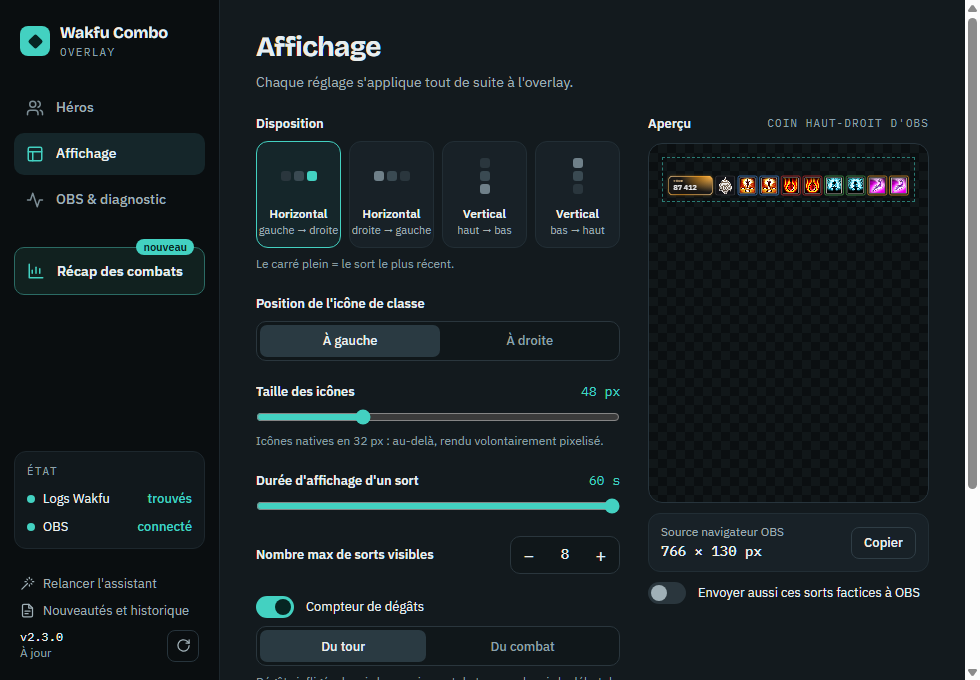
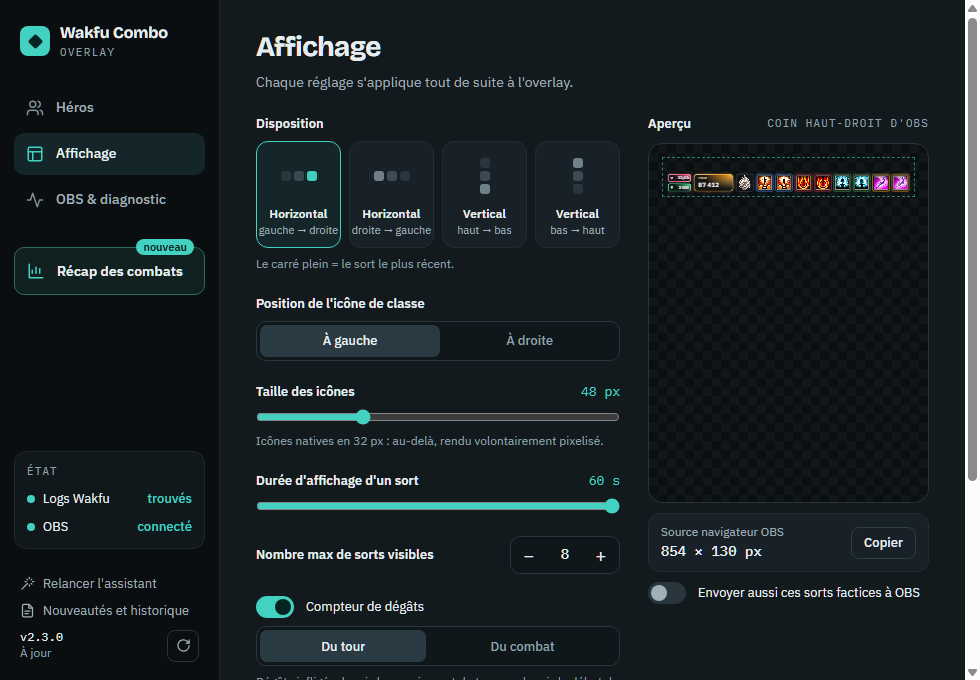
feat: mise à jour de la documentation et ajout de nouvelles images pour les récapitulatifs de combat, y compris les soins et l'armure

Changed region(s): [[0.6735, 0.2471, 0.949, 0.3088], [0.9796, 0.7103, 1.0, 0.7412], [0.6735, 0.8029, 0.7041, 0.8338]]

diff --git a/tools/capture_gif.js b/tools/capture_gif.js
@@ -1,7 +1,7 @@
 /**
  * tools/capture_gif.js
  * Records doc/overlay-demo.gif: the real overlay replaying a scripted fight
- * (casts, damage counter, an Osamodas summon), written to a fake wakfu.log in
+ * (casts, damage counter, heals and armour given, an Osamodas summon), written to a fake wakfu.log in
  * the same format as the game's. The app runs on an isolated demo profile on
  * port 3498 (see demo_app.js), so a running instance isn't disturbed; Electron
  * is only the offscreen browser that films the overlay.
@@ -24,8 +24,8 @@ const PORT = 3498;
 const ICON_SIZE = 48;
 const FPS = 15;
 const BACKGROUND = '#1b1f24';
-// Overlay size for 8 casts at 48 px with the damage counter (see overlaySize() in settings.js).
-const SIZE = ORIENTATION === 'vertical' ? { width: 188, height: 643 } : { width: 766, height: 130 };
+// Overlay size for 8 casts at 48 px with the counters (see overlaySize() in settings.js).
+const SIZE = ORIENTATION === 'vertical' ? { width: 188, height: 705 } : { width: 854, height: 130 };
 
 const profile = createDemoProfile({
   name: 'wakfu-combo-overlay-gif',
@@ -33,8 +33,9 @@ const profile = createDemoProfile({
   heroes: [
     hero('Lueur Ocre', 'iop', 74, 144, 226),
     hero('Lueur Pourpre', 'sram', 220, 50, 50),
+    hero('Lueur Grenat', 'eniripsa', 236, 64, 122),
     hero('Lueur Émeraude', 'osamodas', 76, 175, 80),
-    hero('Lueur Acérée', 'cra', 255, 167, 38),
+    hero('Lueur Etherique', 'huppermage', 171, 71, 188),
   ],
   comboLayout: {
     orientation: ORIENTATION, direction: ORIENTATION === 'vertical' ? 'top-to-bottom' : 'left-to-right',
@@ -61,29 +62,45 @@ const join = (name, breed, ai) => write(` INFO ${stamp()} [AWT-EventQueue-0] (fc
 const cast = (who, spell) => () => combat(`${who} lance le sort ${spell}`);
 const hit = (pv, element) => () => combat(`Sac à patates: -${pv} PV  (${element})`);
 const turnEnd = (s) => () => combat(`${s} secondes reportées pour le tour suivant.`);
+const heal = (who, pv, tags) => () => combat(`${who}: +${pv} PV ${tags}`);
+const armor = (who, amount) => () => combat(`${who}: ${amount} Armure`);
 const SCRIPT = [
   [0, () => join('Sac à patates', 2335, true)],
   [0, () => join('Lueur Ocre', 8, false)],
   [0, () => join('Lueur Pourpre', 4, false)],
+  [0, () => join('Lueur Grenat', 7, false)],
   [0, () => join('Lueur Émeraude', 2, false)],
-  [0, () => join('Lueur Acérée', 9, false)],
-  [600, cast('Lueur Ocre', 'Épée céleste')], [450, hit('2 431', 'Feu')],
+  [0, () => join('Lueur Etherique', 19, false)],
+  // First, the Huppermage: damage, a Faille shielding an ally and herself
+  // (both hers), then lifesteal — all three counters from the first turn.
+  [600, cast('Lueur Etherique', 'Orbes luisants (Critiques)')], [450, hit('3 377', 'Lumière')],
+  [700, cast('Lueur Etherique', 'Faille')], [450, armor('Lueur Ocre', '1 732')],
+  [200, armor('Lueur Etherique', '1 732')],
+  [700, cast('Lueur Etherique', 'Épée de lumière (Critiques)')], [450, hit('4 912', 'Lumière')],
+  [250, heal('Lueur Etherique', '1 640', '(Neutre - Vol de vie)')],
+  [900, turnEnd(19)],
+  [400, cast('Lueur Ocre', 'Épée céleste')], [450, hit('2 431', 'Feu')],
   [700, cast('Lueur Ocre', 'Fulgur')], [450, hit('3 108', 'Feu')],
   [700, cast('Lueur Ocre', 'Super Iop Punch')], [450, hit('5 874', 'Terre')],
   [900, turnEnd(21)],
+  // Lifesteal: the Sram's own heal.
   [400, cast('Lueur Pourpre', 'Saignée mortelle')], [450, hit('1 962', 'Eau')],
+  [250, heal('Lueur Pourpre', '980', '(Neutre - Vol de vie) (Saignée mortelle)')],
   [700, cast('Lueur Pourpre', 'Attaque perfide (Critiques)')], [450, hit('4 320', 'Eau')],
   [700, cast('Lueur Pourpre', 'Mise à mort')], [450, hit('6 715', 'Air')],
   [900, turnEnd(18)],
+  // The Eniripsa heals the group, then hits.
+  [400, cast('Lueur Grenat', 'Revitalisation')], [450, heal('Lueur Ocre', '2 577', '(Eau)')],
+  [200, heal('Lueur Pourpre', '2 410', '(Eau)')],
+  [700, cast('Lueur Grenat', 'Mot soignant (Critiques)')], [450, heal('Lueur Pourpre', '4 126', '(Feu)')],
+  [700, cast('Lueur Grenat', 'Flamme purificatrice')], [450, hit('1 845', 'Feu')],
+  [900, turnEnd(22)],
   [400, cast('Lueur Émeraude', 'Invocation')],
   [300, () => combat('Lueur Émeraude: Invoque une créature du Gobgob')],
   [0, () => join('Dragoeuf Guerrier', 4210, true)],
   [700, cast('Lueur Émeraude', 'Fouet')], [450, hit('1 845', 'Feu')],
   [700, turnEnd(25)],
   [400, cast('Dragoeuf Guerrier', 'Griffure')], [450, hit('2 290', 'Feu')],
-  [900, cast('Lueur Acérée', 'Flèche tempête')], [450, hit('2 604', 'Air')],
-  [700, cast('Lueur Acérée', 'Flèche explosive')], [450, hit('3 377', 'Feu')],
-  [700, cast('Lueur Acérée', 'Pluie de flèches')], [450, hit('4 912', 'Terre')],
   [2200, turnEnd(14)],
 ];
 

diff --git a/tools/capture_screenshots.js b/tools/capture_screenshots.js
@@ -98,25 +98,29 @@ app.whenReady().then(async () => {
 
   // Overlay "OBS" client, so the diagnostics show a connected source.
   const overlayWin = new BrowserWindow({
-    // Overlay size for 8 casts at 48 px with the damage counter (see overlaySize() in settings.js).
-    width: 766, height: 130, useContentSize: true, show: false, backgroundColor: '#1b1f24',
+    // Overlay size for 8 casts at 48 px with the counters (see overlaySize() in settings.js).
+    width: 854, height: 130, useContentSize: true, show: false, backgroundColor: '#1b1f24',
     webPreferences: { offscreen: false },
   });
   await overlayWin.loadURL(`http://localhost:${PORT}`);
   await wait(1000);
 
-  // Casts (and what they hit): tracked heroes, an untracked hero, a random player.
+  // Casts (and what they hit, then any other line): tracked heroes, an
+  // untracked hero, a random player. The last hero also heals (lifesteal)
+  // and gains armour, for the heal and armour counters.
   const seq = [
     ['Lueur Ocre', 'Épée céleste', '2 431'], ['Lueur Pourpre', 'Saignée mortelle', '1 962'],
     ['Lueur Grenat', 'Mot soignant'], ['Lueur Acérée', 'Flèche tempête', '2 604'],
     ['Lueur Etherique', 'Résonance', '3 377'], ['Kralamoure Pas-Content', 'Tentacule'],
-    ['Lueur Ocre', 'Fulgur', '3 108'], ['Lueur Pourpre', 'Mise à mort', '6 715'],
+    ['Lueur Ocre', 'Fulgur', '3 108'],
+    ['Lueur Pourpre', 'Mise à mort', '6 715', ['Lueur Pourpre: +4 210 PV (Neutre - Vol de vie)', 'Lueur Pourpre: 2 150 Armure']],
   ];
-  for (const [who, spell, damage] of seq) {
+  for (const [who, spell, damage, then = []] of seq) {
     cast(who, spell);
     win.webContents.send('demo:debug', debugEntry(who, spell));
     await wait(300);
     if (damage) combat(`Sac à patates: -${damage} PV  (Feu)`);
+    for (const line of then) combat(line);
     await wait(500);
   }
   await wait(1200);
@@ -167,6 +171,11 @@ app.whenReady().then(async () => {
   await shot(recapWin, 'app-6-recap-soins.png', `
     [...document.querySelectorAll('[role=tab]')].find((b) => b.textContent.includes('Soins')).click();
     ${openHero('Lueur Grenat', 0)}
+  `);
+  await shot(recapWin, 'app-6b-recap-armure.png', `
+    document.querySelector('.rc-row.open .rc-row-btn')?.click();
+    [...document.querySelectorAll('[role=tab]')].find((b) => b.textContent.includes('Armure')).click();
+    ${openHero('Lueur Ocre', -1)} // no hover: the first spell that gave some armour
   `);
   await shot(await page(path.join('whatsnew', 'index.html'), 560, 600), 'app-7-nouveautes.png');
 

diff --git a/README.md b/README.md
@@ -5,7 +5,7 @@
 
 Affiche en direct sur ton stream les sorts lancés par tes personnages Wakfu, sous forme d'icônes qui défilent dans OBS. Tu ne streames pas ? L'**affichage tête haute** les montre directement par-dessus le jeu. Après chaque combat, le **récap des combats** te montre qui a fait quoi : dégâts, soins, meilleur tour, sort par sort.
 
-![L'overlay en combat : sorts des héros et compteur de dégâts du tour](doc/overlay-demo.gif)
+![L'overlay en combat : sorts des héros, compteur de dégâts du tour, soins et armure donnés](doc/overlay-demo.gif)
 
 L'application lit les logs de combat du client Wakfu en temps réel. Elle ne garde que les sorts de tes personnages (les autres joueurs et les mobs sont ignorés) et les envoie à une page web transparente que tu ajoutes comme **Source Navigateur** dans OBS.
 
@@ -184,6 +184,8 @@ Le récap revient sur chaque combat de la session : qui a fait quoi, et comment.
 Dans l'onglet **Soins**, tout le détail passe aux soins : meilleur tour de soins, soins par sort (un sort de zone montre chaque cible soignée) et personnes soignées. L'onglet **Armure** fait de même pour l'armure donnée, avec les alliés protégés.
 
 ![Récap des combats : onglet Soins](doc/app-6-recap-soins.png)
+
+![Récap des combats : onglet Armure, armure donnée par sort et alliés protégés](doc/app-6b-recap-armure.png)
 
 **Comment l'appli compte**
 
@@ -410,4 +412,4 @@ npx --yes electron@44 tools/capture_gif.js            # doc/overlay-demo.gif
 npx --yes electron@44 tools/capture_gif.js vertical   # doc/overlay-demo-vertical.gif
 ```
 
-Ce script enregistre le vrai overlay pendant qu'il rejoue un combat scénarisé (sorts, compteur de dégâts, invocation Osamodas), écrit dans un faux `wakfu.log` au format du jeu.
+Ce script enregistre le vrai overlay pendant qu'il rejoue un combat scénarisé (sorts, compteur de dégâts, soins et armure donnés, invocation Osamodas), écrit dans un faux `wakfu.log` au format du jeu.
